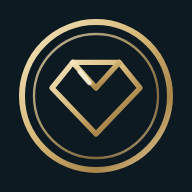
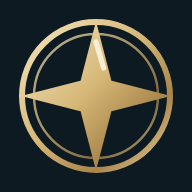
feat(ai-bijika): ロゴをガイディングスター意匠に刷新
ジェムのモノグラムから、「ミチシルベ（道標）」という名前の意味
そのものを表す4方向のガイディングスターに変更。線画中心だった
前デザインより塗りを増やし輪郭を太くすることで、favicon やタブ
バーのアバターなど小さいサイズでも一目で分かる、より目を引く
マークにした。金の二重リングは踏襲。

- lib/ui.js の crest() を新意匠に変更
- PWAアイコン（icon-192.png・icon-512.png）を再生成
- sw.js のキャッシュバージョンを更新（v5→v6）
- 既存の回帰テスト（58ステップ）で表示崩れがないことを確認

Claude-Session: https://claude.ai/code/session_01YZTxezyk62N9t2iFsK98o8

Changed region(s): [[0.125, 0.125, 0.875, 0.875]]

diff --git a/ai-bijika-system/lib/ui.js b/ai-bijika-system/lib/ui.js
@@ -43,7 +43,8 @@ function icon(name, size = 20, extraClass = '') {
   return `<svg class="ico ${extraClass}" width="${size}" height="${size}" viewBox="0 0 24 24" fill="none" stroke="currentColor" stroke-width="1.7" stroke-linecap="round" stroke-linejoin="round" aria-hidden="true">${ICON_PATHS[name] || ''}</svg>`;
 }
 
-// ブランドの紋章（金の二重リングに、経験が磨かれ商品になることを表すジェムのモノグラム）
+// ブランドの紋章（金の二重リングに、道を示すガイディングスターのモノグラム。
+// 「ミチシルベ」＝道標という名前の意味そのものを、輝く星のかたちで表している）
 let crestSeq = 0;
 function crest(size = 34) {
   const id = `cr${++crestSeq % 100000}`;
@@ -51,13 +52,8 @@ function crest(size = 34) {
   <defs><linearGradient id="${id}" x1="0" y1="0" x2="1" y2="1"><stop offset="0" stop-color="#F4E5BF"/><stop offset=".45" stop-color="#D6B878"/><stop offset=".75" stop-color="#A9854A"/><stop offset="1" stop-color="#E9D4A4"/></linearGradient></defs>
   <circle cx="24" cy="24" r="22.8" fill="#0E1A22" stroke="url(#${id})" stroke-width="1.4"/>
   <circle cx="24" cy="24" r="19.4" fill="none" stroke="url(#${id})" stroke-width=".55" opacity=".75"/>
-  <g stroke="url(#${id})" stroke-width="1.1" stroke-linejoin="round" stroke-linecap="round" fill="none">
-    <path d="M18,16 L30,16 L36,23 L24,35 L12,23 Z"/>
-    <path d="M12,23 L36,23"/>
-    <path d="M18,16 L24,23 L30,16"/>
-    <path d="M24,23 L24,35"/>
-  </g>
-  <path d="M20,18.3 L22.3,21" stroke="#FBF3DE" stroke-width="1" stroke-linecap="round" opacity=".85"/>
+  <path d="M24,5 L28.2,19.8 L43,24 L28.2,28.2 L24,43 L19.8,28.2 L5,24 L19.8,19.8 Z" fill="url(#${id})" stroke="url(#${id})" stroke-width=".6" stroke-linejoin="round"/>
+  <path d="M24,9.5 L26.1,16.3" stroke="#FBF3DE" stroke-width="1.1" stroke-linecap="round" opacity=".9"/>
 </svg>`;
 }
 

diff --git a/ai-bijika-system/public/sw.js b/ai-bijika-system/public/sw.js
@@ -1,6 +1,6 @@
 // 最小限のService Worker。静的アセットのみキャッシュし、
 // ダッシュボード等の動的ページは常にネットワークから取得する（進捗の古い表示を防ぐ）。
-const CACHE = 'ai-bijika-static-v5';
+const CACHE = 'ai-bijika-static-v6';
 const STATIC_ASSETS = ['/manifest.json', '/icon-192.png', '/icon-512.png'];
 
 self.addEventListener('install', (event) => {

diff --git a/ai-bijika-system/README.md b/ai-bijika-system/README.md
@@ -46,6 +46,7 @@ npm start          # --experimental-sqlite --env-file=.env
 - 初心者向けの導線強化：
   - ブランドを「AI商品化実践システム」から**「ミチシルベ」**（GATEで道を示す、という意味合い）に刷新（ロゴも「AI」の文字から、経験が磨かれ商品になることを表すジェムのモノグラムに変更。ファセットのハイライトを加えて質感を調整。`lib/ui.js`の`crest()`とPWAアイコンに反映）。トップページの見出しも「AIプロンプトと10のGATEで〜」という仕組み先行の説明から、「経験を商品にして、実際に売る」という結果を先に伝える書き方に変更
     （初回案「商品化デビュー」はフィードバックを受けて再検討し、直訳的な名称から現在のブランド名に変更した）
+  - **ロゴをさらに刷新**：ジェムのモノグラムから、「ミチシルベ（道標）」という名前の意味そのものを表す**ガイディングスター**（4方向に伸びる星のファセット意匠）に変更。金の二重リングは踏襲しつつ、線画中心だった前デザインより塗りを増やし輪郭を太くすることで、小さいサイズ（favicon・タブバーのアバター等）でも一目で分かる、より目を引くマークにした。`lib/ui.js`の`crest()`とPWAアイコン（`public/icon-192.png`・`icon-512.png`）に反映
   - ChatGPTへ移動したあと**「この画面への戻り方」**をプロンプト詳細画面に明記（開いた画面の「×」や「完了」をタップして閉じれば戻れること、閉じるボタンが見当たらない場合はアプリ切り替えを使うことを具体的に案内）
   - 「1日30分・90日で完成」はあくまで目安であり、まとまった時間を取れる人は前のめりに進めてよい旨をトップページに明記
   - **使い方ガイド**（`/guide`）を新設：画面下の4タブ・プロンプト画面の各ボタン（コピー／ChatGPTで開く／戻り方／次のステップ）・GATE判定ボタン（合格／要修正／やり直し）を押すと何が起きるかを一箇所にまとめた。属性選択の直後は必ずこのページ（`?welcome=1`。タブバー非表示＋「ホームへ進む」導線）を経由してからホームへ進む導線にし、以後はダッシュボード上部とアカウント画面からいつでも見返せる。
